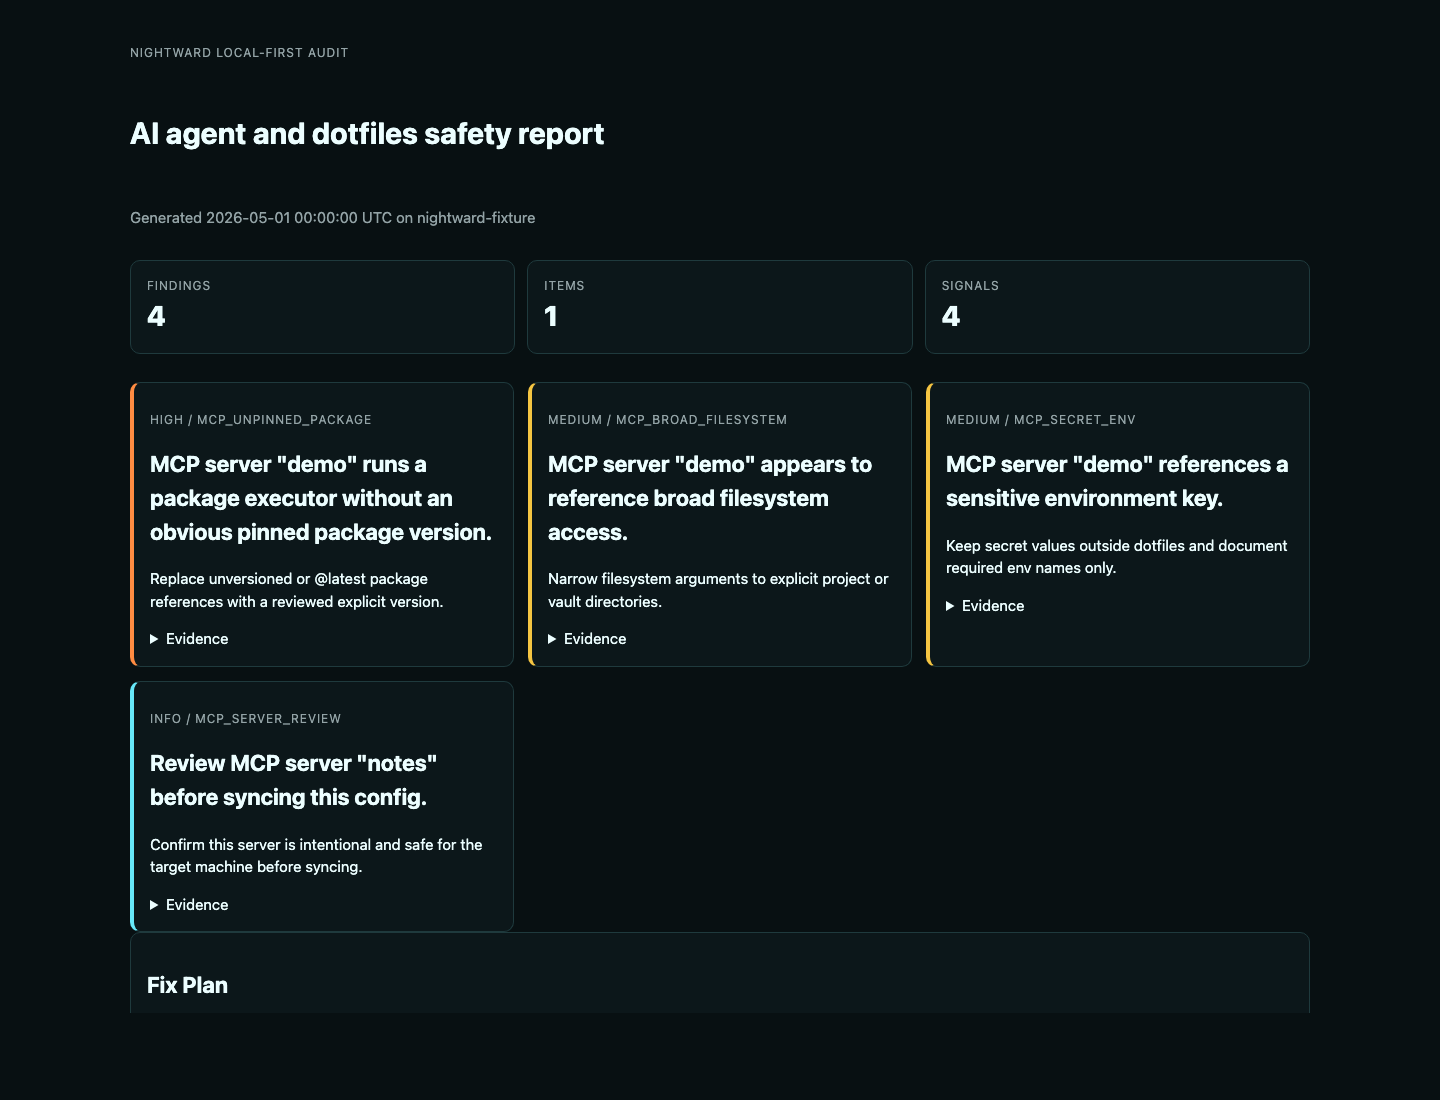
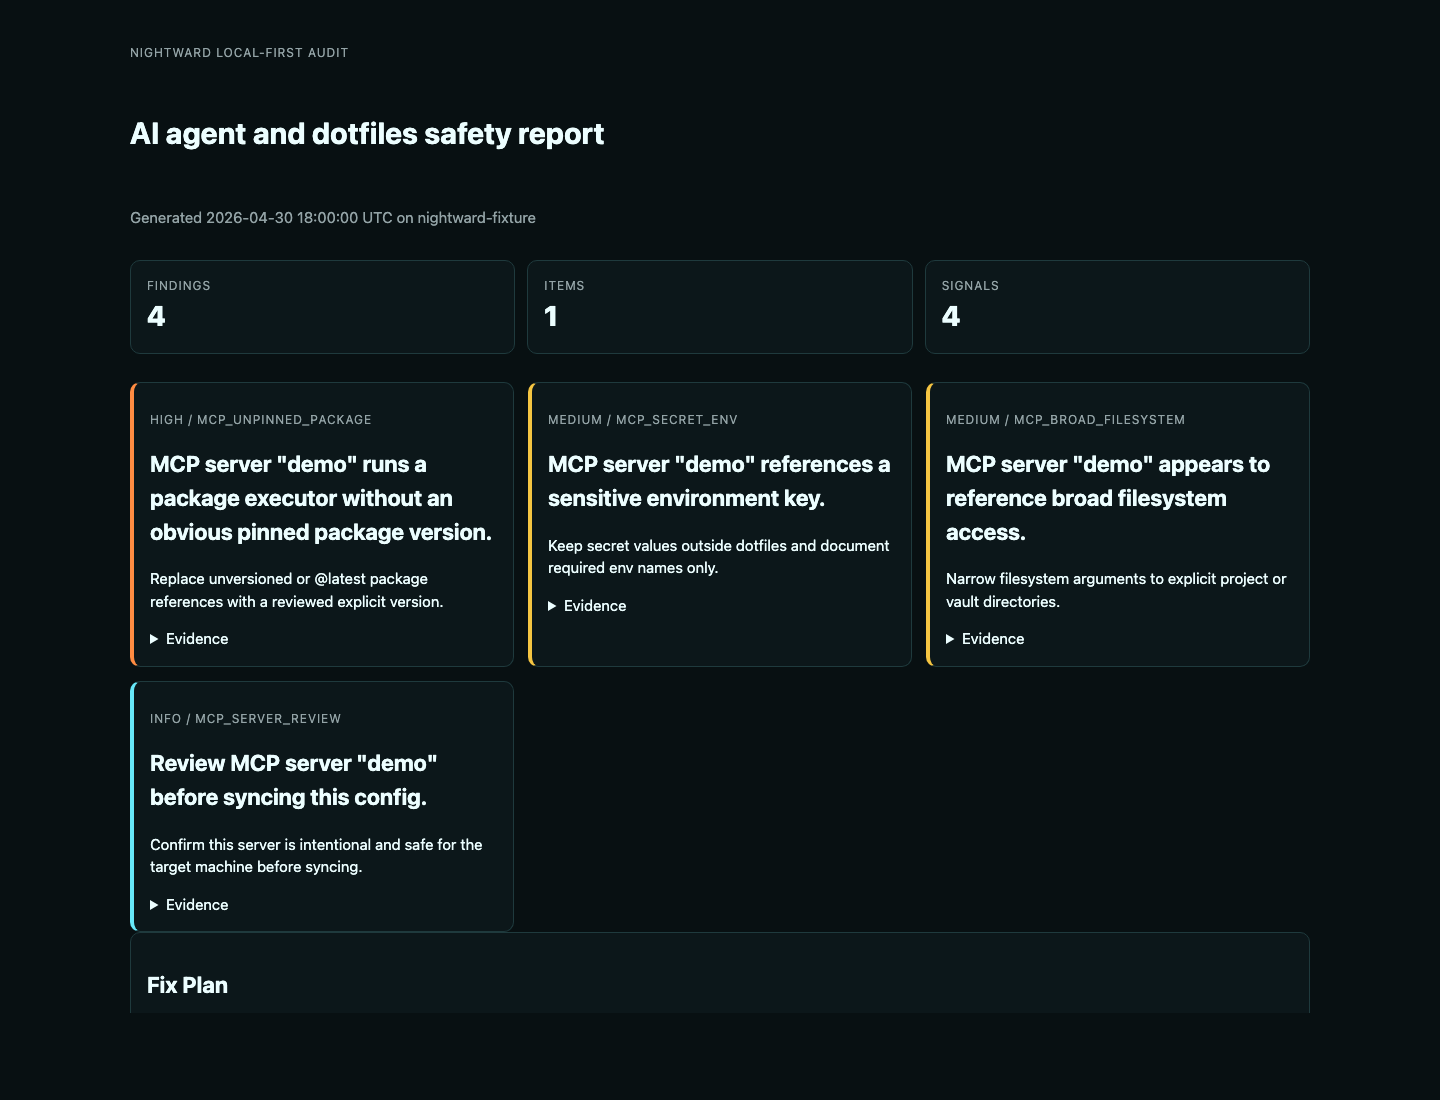
fix(tui): match opentui reference layout

diff --git a/site/public/demo/nightward-sample-report.html b/site/public/demo/nightward-sample-report.html
@@ -1,1 +1,1 @@
-<!doctype html><html lang="en"><head><meta charset="utf-8"><meta name="viewport" content="width=device-width,initial-scale=1"><title>Nightward Report</title><style>body{margin:0;background:#081012;color:#ecfeff;font:15px/1.5 system-ui,-apple-system,BlinkMacSystemFont,Segoe UI,sans-serif}main{max-width:1180px;margin:0 auto;padding:32px}a{color:#67e8f9}.hero{display:grid;gap:16px;margin-bottom:28px}.kpis{display:grid;grid-template-columns:repeat(auto-fit,minmax(150px,1fr));gap:12px}.kpi,.panel{border:1px solid #1f3a3d;background:#0c171a;border-radius:10px;padding:16px}.label{color:#93a3a6;font-size:12px;text-transform:uppercase;letter-spacing:.08em}.value{font-size:28px;font-weight:800}.finding{border-left:4px solid #67e8f9}.critical{border-left-color:#ff4d4f}.high{border-left-color:#ff8c42}.medium{border-left-color:#f5c542}code,pre{background:#132226;border-radius:6px;padding:2px 5px}pre{white-space:pre-wrap;padding:12px;overflow:auto}.grid{display:grid;grid-template-columns:repeat(auto-fit,minmax(320px,1fr));gap:14px}.muted{color:#93a3a6}</style></head><body><main><section class="hero"><p class="label">Nightward local-first audit</p><h1>AI agent and dotfiles safety report</h1><p class="muted">Generated 2026-05-01 00:00:00 UTC on nightward-fixture</p><div class="kpis"><div class="kpi"><div class="label">Findings</div><div class="value">4</div></div><div class="kpi"><div class="label">Items</div><div class="value">1</div></div><div class="kpi"><div class="label">Signals</div><div class="value">4</div></div></div></section><section class="grid"><article class="panel finding high"><p class="label">High / mcp_unpinned_package</p><h2>MCP server "demo" runs a package executor without an obvious pinned package version.</h2><p>Replace unversioned or @latest package references with a reviewed explicit version.</p><details><summary>Evidence</summary><pre>command=npx args=-y @modelcontextprotocol/server-filesystem $HOME url=</pre></details></article><article class="panel finding medium"><p class="label">Medium / mcp_broad_filesystem</p><h2>MCP server "demo" appears to reference broad filesystem access.</h2><p>Narrow filesystem arguments to explicit project or vault directories.</p><details><summary>Evidence</summary><pre>npx -y @modelcontextprotocol/server-filesystem $HOME </pre></details></article><article class="panel finding medium"><p class="label">Medium / mcp_secret_env</p><h2>MCP server "demo" references a sensitive environment key.</h2><p>Keep secret values outside dotfiles and document required env names only.</p><details><summary>Evidence</summary><pre>env.API_TOKEN=${API_TOKEN}</pre></details></article><article class="panel finding info"><p class="label">Info / mcp_server_review</p><h2>Review MCP server "notes" before syncing this config.</h2><p>Confirm this server is intentional and safe for the target machine before syncing.</p><details><summary>Evidence</summary><pre>node ./tools/notes-mcp.js </pre></details></article></section><section class="panel"><h2>Fix Plan</h2><p><strong>Narrow filesystem access</strong> <span class="muted">1 findings</span></p><p><strong>Externalize inline secrets</strong> <span class="muted">1 findings</span></p><p><strong>Review finding</strong> <span class="muted">1 findings</span></p><p><strong>Pin package executors</strong> <span class="muted">1 findings</span></p></section></main></body></html>
+<!doctype html><html lang="en"><head><meta charset="utf-8"><meta name="viewport" content="width=device-width,initial-scale=1"><title>Nightward Report</title><style>body{margin:0;background:#081012;color:#ecfeff;font:15px/1.5 system-ui,-apple-system,BlinkMacSystemFont,Segoe UI,sans-serif}main{max-width:1180px;margin:0 auto;padding:32px}a{color:#67e8f9}.hero{display:grid;gap:16px;margin-bottom:28px}.kpis{display:grid;grid-template-columns:repeat(auto-fit,minmax(150px,1fr));gap:12px}.kpi,.panel{border:1px solid #1f3a3d;background:#0c171a;border-radius:10px;padding:16px}.label{color:#93a3a6;font-size:12px;text-transform:uppercase;letter-spacing:.08em}.value{font-size:28px;font-weight:800}.finding{border-left:4px solid #67e8f9}.critical{border-left-color:#ff4d4f}.high{border-left-color:#ff8c42}.medium{border-left-color:#f5c542}code,pre{background:#132226;border-radius:6px;padding:2px 5px}pre{white-space:pre-wrap;padding:12px;overflow:auto}.grid{display:grid;grid-template-columns:repeat(auto-fit,minmax(320px,1fr));gap:14px}.muted{color:#93a3a6}</style></head><body><main><section class="hero"><p class="label">Nightward local-first audit</p><h1>AI agent and dotfiles safety report</h1><p class="muted">Generated 2026-04-30 18:00:00 UTC on nightward-fixture</p><div class="kpis"><div class="kpi"><div class="label">Findings</div><div class="value">4</div></div><div class="kpi"><div class="label">Items</div><div class="value">1</div></div><div class="kpi"><div class="label">Signals</div><div class="value">4</div></div></div></section><section class="grid"><article class="panel finding high"><p class="label">High / mcp_unpinned_package</p><h2>MCP server "demo" runs a package executor without an obvious pinned package version.</h2><p>Replace unversioned or @latest package references with a reviewed explicit version.</p><details><summary>Evidence</summary><pre>command=npx args=-y @modelcontextprotocol/server-filesystem $HOME url=</pre></details></article><article class="panel finding medium"><p class="label">Medium / mcp_secret_env</p><h2>MCP server "demo" references a sensitive environment key.</h2><p>Keep secret values outside dotfiles and document required env names only.</p><details><summary>Evidence</summary><pre>env.API_TOKEN=${API_TOKEN}</pre></details></article><article class="panel finding medium"><p class="label">Medium / mcp_broad_filesystem</p><h2>MCP server "demo" appears to reference broad filesystem access.</h2><p>Narrow filesystem arguments to explicit project or vault directories.</p><details><summary>Evidence</summary><pre>npx -y @modelcontextprotocol/server-filesystem $HOME </pre></details></article><article class="panel finding info"><p class="label">Info / mcp_server_review</p><h2>Review MCP server "demo" before syncing this config.</h2><p>Confirm this server is intentional and safe for the target machine before syncing.</p><details><summary>Evidence</summary><pre>npx -y @modelcontextprotocol/server-filesystem $HOME </pre></details></article></section><section class="panel"><h2>Fix Plan</h2><p><strong>Narrow filesystem access</strong> <span class="muted">1 findings</span></p><p><strong>Externalize inline secrets</strong> <span class="muted">1 findings</span></p><p><strong>Review finding</strong> <span class="muted">1 findings</span></p><p><strong>Pin package executors</strong> <span class="muted">1 findings</span></p></section></main></body></html>

diff --git a/crates/nightward-cli/src/tui.rs b/crates/nightward-cli/src/tui.rs
@@ -1,5 +1,5 @@
 use anyhow::Result;
-use nightward_core::{max_risk, Report, RiskLevel};
+use nightward_core::{max_risk, Finding, Report, RiskLevel};
 use opentui::buffer::{BoxOptions, BoxStyle, ClipRect, TitleAlign};
 use opentui::input::{Event, InputParser, KeyCode};
 use opentui::terminal::{enable_raw_mode, terminal_size};
@@ -158,15 +158,25 @@ impl<'a> TuiState<'a> {
         let main_x = sidebar_w + 2;
         let main_w = width.saturating_sub(main_x + 2);
         self.render_sidebar(buffer, Area::new(0, 0, sidebar_w, height));
-        self.render_header(buffer, Area::new(main_x, 1, main_w, 7));
+        self.render_header(buffer, Area::new(main_x, 1, main_w, 6));
         self.render_content(
             buffer,
-            Area::new(main_x, 9, main_w, height.saturating_sub(12)),
+            Area::new(main_x, 8, main_w, height.saturating_sub(11)),
         );
-        self.render_footer(
-            buffer,
-            Area::new(main_x, height.saturating_sub(3), main_w, 2),
-        );
+        if self.active_view == 0 {
+            draw_hline(
+                buffer,
+                main_x,
+                height.saturating_sub(3),
+                main_w,
+                self.palette.line,
+            );
+        } else {
+            self.render_footer(
+                buffer,
+                Area::new(main_x, height.saturating_sub(3), main_w, 2),
+            );
+        }
     }
 
     fn render_tiny(&self, buffer: &mut OptimizedBuffer, width: u32, height: u32) {
@@ -258,7 +268,7 @@ impl<'a> TuiState<'a> {
             let x = area.x + u32::try_from(idx).unwrap_or(0) * (card_w + 1);
             old_stat_card(
                 buffer,
-                Area::new(x, area.y + 3, card_w, 4),
+                Area::new(x, area.y + 2, card_w, 4),
                 label,
                 value,
                 *color,
@@ -313,12 +323,12 @@ impl<'a> TuiState<'a> {
             "AI config risk console",
             Style::fg(self.palette.muted),
         );
-        row += 3;
+        row += 2;
 
         let risk = max_risk(&self.report.findings);
         plain_box(
             buffer,
-            Area::new(x, row, area.w.saturating_sub(5), 3),
+            Area::new(x, row, area.w.saturating_sub(6), 3),
             severity_color(&self.palette, risk),
             self.palette.sidebar,
         );
@@ -329,7 +339,7 @@ impl<'a> TuiState<'a> {
             &format!("RISK {}", risk_label(risk)),
             Style::fg(severity_color(&self.palette, risk)).with_bold(),
         );
-        row += 4;
+        row += 3;
         draw_text(
             buffer,
             x,
@@ -349,7 +359,7 @@ impl<'a> TuiState<'a> {
             ),
             Style::fg(self.palette.muted),
         );
-        row += 3;
+        row += 2;
         for (idx, view) in VIEWS.iter().enumerate() {
             let active = idx == self.active_view;
             let color = if active {
@@ -560,7 +570,11 @@ impl<'a> TuiState<'a> {
         );
         row += 3;
         let max_rows = area.h.saturating_sub(13) as usize / 3;
-        for finding in self.report.findings.iter().take(max_rows.clamp(3, 5)) {
+        for finding in self
+            .display_findings()
+            .into_iter()
+            .take(max_rows.clamp(3, 5))
+        {
             let color = severity_color(&self.palette, finding.severity);
             draw_text(
                 buffer,
@@ -581,7 +595,7 @@ impl<'a> TuiState<'a> {
                 buffer,
                 area.x + 3,
                 row,
-                &truncate(&finding.message, area.w.saturating_sub(6) as usize),
+                &truncate(&recent_message(finding), area.w.saturating_sub(6) as usize),
                 Style::fg(self.palette.muted),
             );
             row += 2;
@@ -650,7 +664,8 @@ impl<'a> TuiState<'a> {
         );
 
         let max_rows = area.h.saturating_sub(5) as usize;
-        for (idx, finding) in self.report.findings.iter().take(max_rows).enumerate() {
+        let display_findings = self.display_findings();
+        for (idx, finding) in display_findings.into_iter().take(max_rows).enumerate() {
             let row = area.y + 4 + u32::try_from(idx).unwrap_or(0);
             let selected = idx == self.selected_finding;
             let color = severity_color(&self.palette, finding.severity);
@@ -797,6 +812,19 @@ impl<'a> TuiState<'a> {
         }
     }
 
+    fn display_findings(&self) -> Vec<&Finding> {
+        let mut findings = self.report.findings.iter().collect::<Vec<_>>();
+        findings.sort_by(|a, b| {
+            b.severity
+                .rank()
+                .cmp(&a.severity.rank())
+                .then_with(|| rule_display_rank(&a.rule).cmp(&rule_display_rank(&b.rule)))
+                .then_with(|| a.server.cmp(&b.server))
+                .then_with(|| a.id.cmp(&b.id))
+        });
+        findings
+    }
+
     fn render_placeholder(&self, buffer: &mut OptimizedBuffer, area: Area, title: &str) {
         plain_box(
             buffer,
@@ -850,9 +878,9 @@ struct Palette {
 impl Palette {
     fn new() -> Self {
         Self {
-            bg: color("#070A12"),
+            bg: color("#000000"),
             sidebar: color("#151817"),
-            panel: color("#171A19"),
+            panel: color("#1A1C19"),
             surface: color("#20262C"),
             code_bg: color("#111827"),
             line: color("#26324A"),
@@ -888,7 +916,7 @@ fn draw_panel(buffer: &mut OptimizedBuffer, area: Area, title: &str, border: Rgb
         return;
     }
     let mut options = BoxOptions::new(BoxStyle::rounded(Style::fg(border)));
-    options.fill = Some(fill.with_alpha(0.92));
+    options.fill = Some(fill);
     options.title = Some(format!(" {title} "));
     options.title_align = TitleAlign::Left;
     buffer.draw_box_with_options(area.x, area.y, area.w, area.h, options);
@@ -899,7 +927,7 @@ fn plain_box(buffer: &mut OptimizedBuffer, area: Area, border: Rgba, fill: Rgba)
         return;
     }
     let mut options = BoxOptions::new(BoxStyle::rounded(Style::fg(border)));
-    options.fill = Some(fill.with_alpha(0.94));
+    options.fill = Some(fill);
     buffer.draw_box_with_options(area.x, area.y, area.w, area.h, options);
 }
 
@@ -992,7 +1020,41 @@ fn severity_color(palette: &Palette, risk: RiskLevel) -> Rgba {
         RiskLevel::High => palette.orange,
         RiskLevel::Medium => palette.amber,
         RiskLevel::Low => palette.blue,
-        RiskLevel::Info => palette.muted,
+        RiskLevel::Info => palette.green,
+    }
+}
+
+fn rule_display_rank(rule: &str) -> usize {
+    match rule {
+        "mcp_unpinned_package" => 0,
+        "mcp_secret_env" | "mcp_secret_header" => 1,
+        "mcp_broad_filesystem" => 2,
+        "mcp_server_review" => 3,
+        _ => 10,
+    }
+}
+
+fn recent_message(finding: &Finding) -> String {
+    match finding.rule.as_str() {
+        "mcp_unpinned_package" => {
+            format!("MCP server \"{}\" runs a package executor", finding.server)
+        }
+        "mcp_secret_env" | "mcp_secret_header" => {
+            format!("MCP server \"{}\" references a sensitive", finding.server)
+        }
+        "mcp_broad_filesystem" => {
+            format!(
+                "MCP server \"{}\" appears to reference broad",
+                finding.server
+            )
+        }
+        "mcp_server_review" => {
+            format!(
+                "Review MCP server \"{}\" before syncing this",
+                finding.server
+            )
+        }
+        _ => finding.message.clone(),
     }
 }
 

diff --git a/crates/nightward-core/src/inventory.rs b/crates/nightward-core/src/inventory.rs
@@ -5,7 +5,7 @@ use chrono::{DateTime, Utc};
 use regex::Regex;
 use serde_json::Value;
 use sha2::{Digest, Sha256};
-use std::collections::{BTreeMap, BTreeSet};
+use std::collections::BTreeMap;
 use std::fs;
 use std::path::{Path, PathBuf};
 
@@ -395,7 +395,6 @@ fn mcp_server_entries(value: &Value) -> Vec<(String, &Value)> {
 }
 
 fn inspect_server(report: &mut Report, tool: &str, path: &Path, server: &str, config: &Value) {
-    let finding_start = report.findings.len();
     let command = str_field(config, &["command", "cmd"]);
     let args = array_field(config, &["args", "arguments"]);
     let url = str_field(config, &["url", "endpoint"]);
@@ -587,24 +586,22 @@ fn inspect_server(report: &mut Report, tool: &str, path: &Path, server: &str, co
             None,
         );
     }
-    if report.findings.len() == finding_start {
-        push_finding(
-            report,
-            tool,
-            path,
-            server,
-            "mcp_server_review",
-            RiskLevel::Info,
-            &format!(
-                "Review MCP server \"{}\" before syncing this config.",
-                server
-            ),
-            &redact_text(&combined),
-            "Confirm this server is intentional and safe for the target machine before syncing.",
-            FixKind::ManualReview,
-            None,
-        );
-    }
+    push_finding(
+        report,
+        tool,
+        path,
+        server,
+        "mcp_server_review",
+        RiskLevel::Info,
+        &format!(
+            "Review MCP server \"{}\" before syncing this config.",
+            server
+        ),
+        &redact_text(&combined),
+        "Confirm this server is intentional and safe for the target machine before syncing.",
+        FixKind::ManualReview,
+        None,
+    );
 }
 
 #[allow(clippy::too_many_arguments)]
@@ -653,40 +650,27 @@ fn push_finding(
 }
 
 fn finalize_report(report: &mut Report) {
-    collapse_review_duplicates(report);
     report.items.sort_by(|a, b| a.path.cmp(&b.path));
     report.findings.sort_by(|a, b| {
         b.severity
             .rank()
             .cmp(&a.severity.rank())
             .then_with(|| a.tool.cmp(&b.tool))
-            .then_with(|| a.rule.cmp(&b.rule))
+            .then_with(|| rule_sort_rank(&a.rule).cmp(&rule_sort_rank(&b.rule)))
             .then_with(|| a.id.cmp(&b.id))
     });
     report.recompute_summary();
 }
 
-fn collapse_review_duplicates(report: &mut Report) {
-    let higher: BTreeSet<(String, String, String)> = report
-        .findings
-        .iter()
-        .filter(|finding| finding.severity.rank() >= RiskLevel::Medium.rank())
-        .map(|finding| {
-            (
-                finding.tool.clone(),
-                finding.path.clone(),
-                finding.server.clone(),
-            )
-        })
-        .collect();
-    report.findings.retain(|finding| {
-        !(finding.rule == "mcp_server_review"
-            && higher.contains(&(
-                finding.tool.clone(),
-                finding.path.clone(),
-                finding.server.clone(),
-            )))
-    });
+fn rule_sort_rank(rule: &str) -> usize {
+    match rule {
+        "mcp_unpinned_package" => 0,
+        "mcp_secret_env" | "mcp_secret_header" => 1,
+        "mcp_broad_filesystem" => 2,
+        "mcp_local_endpoint" => 3,
+        "mcp_server_review" => 4,
+        _ => 10,
+    }
 }
 
 fn str_field(config: &Value, keys: &[&str]) -> String {
@@ -852,6 +836,7 @@ pub fn stable_id(parts: &[&str]) -> String {
 #[cfg(test)]
 mod tests {
     use super::*;
+    use std::collections::BTreeSet;
     use std::fs;
 
     #[test]

diff --git a/docs/remediation.md b/docs/remediation.md
@@ -22,10 +22,9 @@ root cause. For example, repeated `mcp-remote` unpinned-package findings are
 summarized as one grouped review item so the same reviewed version can be
 applied consistently instead of triaging dozens of identical hints.
 
-Advisory `mcp_server_review` findings are collapsed when the same server already
-has a higher-severity finding. The stronger finding remains the review anchor,
-which keeps Raycast, HTML reports, MCP output, and policy results focused on the
-actionable risk.
+Advisory `mcp_server_review` findings stay visible alongside stronger findings
+so review surfaces can show both the concrete issue and the final server-level
+approval step.
 
 ## Rule Guidance
 
@@ -64,8 +63,9 @@ Replace broad filesystem mounts with explicit project or data paths after confir
 ### mcp_server_review
 
 Confirm advisory MCP servers are intentional, documented, and safe to sync before
-moving them into portable dotfiles. Nightward collapses this advisory when the
-same server already has a stronger finding.
+moving them into portable dotfiles. Nightward keeps this advisory visible so
+review flows can distinguish concrete findings from the final server-level
+approval step.
 
 ### mcp_unknown_command
 
